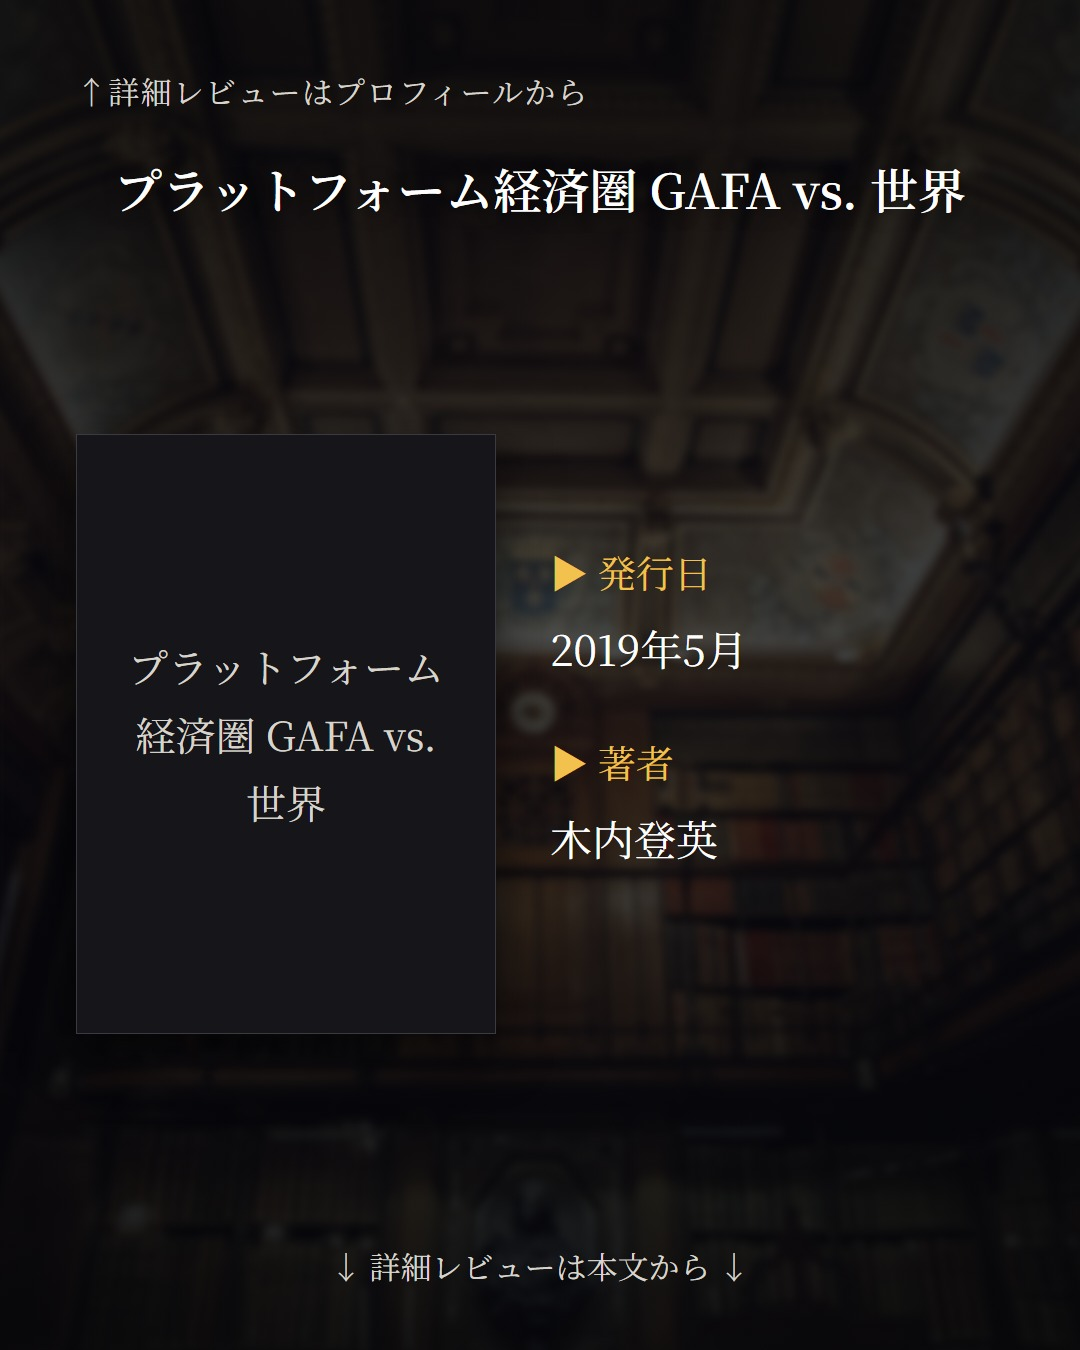
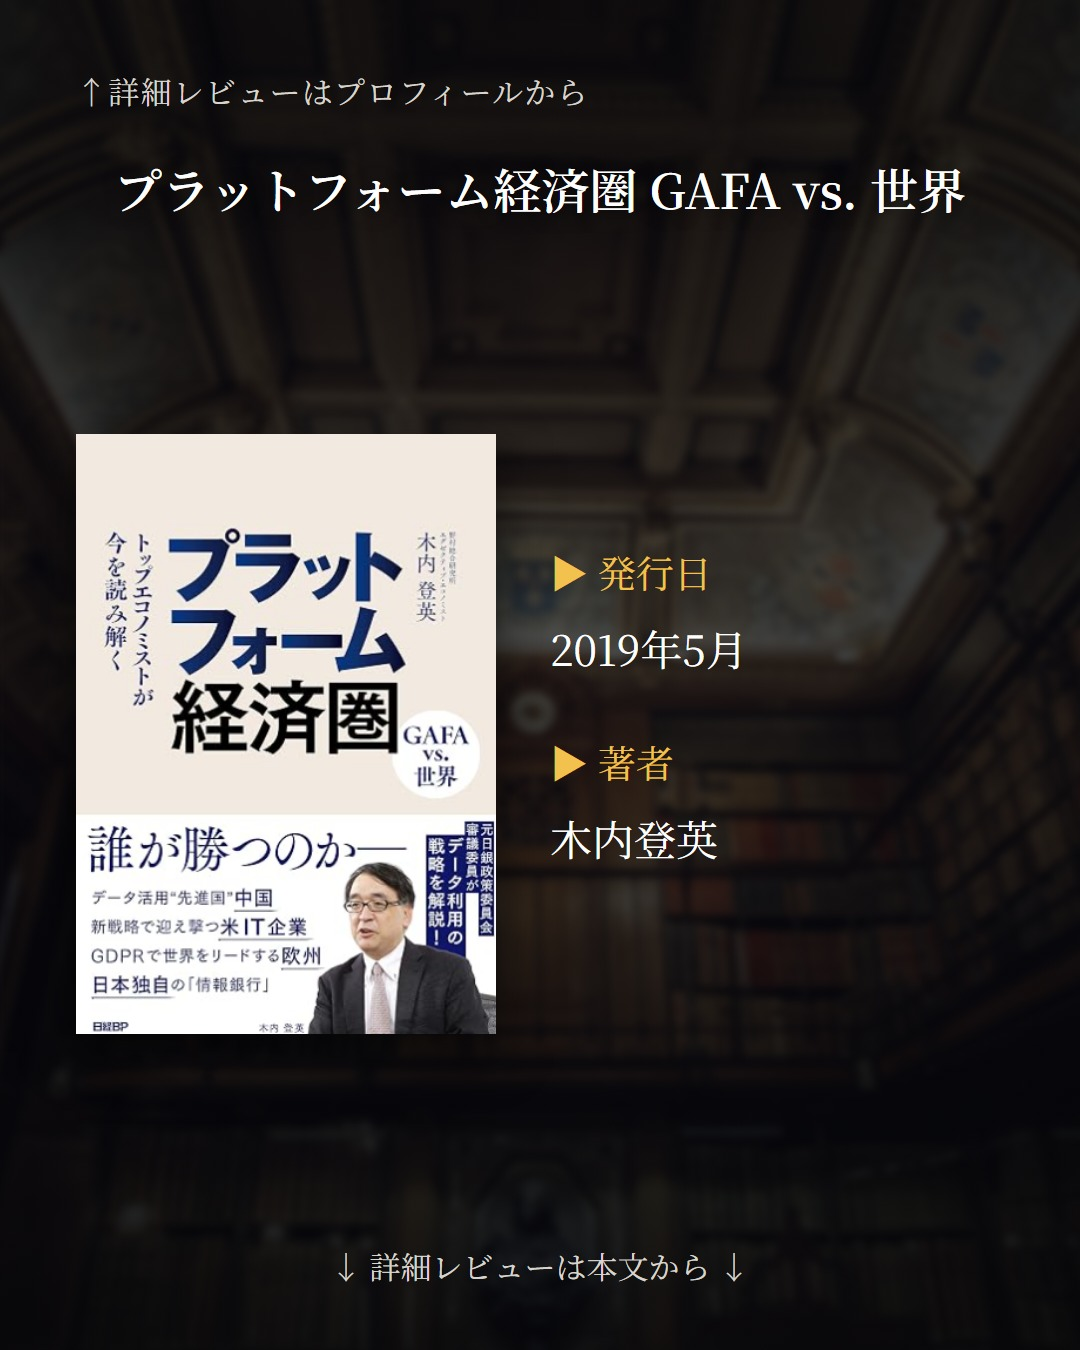
Image storage に置いた画像を取り込めるようにする
スクリーンショットは image-1787989935907.png のような名前で保存されるため、
ファイル名からは本を特定できない。名前に ISBN があれば自動で振り分け、
無いものは一覧に出して --assign で割り当てる。

これで書影の欠落は0件になった。楽天にも openBD にも無かった5冊:
  仕事で必ず結果が出るハイパフォーマー思考 / ハーバード流 企画実現力
  ティム・クック / プラットフォーム経済圏 GAFA vs. 世界 / 2030 半導体の地政学

置き場そのものは追跡しない（取り込み済みの画像は books/covers に入る）。

Changed region(s): [[0.0611, 0.3111, 0.4583, 0.7778]]

diff --git a/docs/preview/2026-W43.html b/docs/preview/2026-W43.html
@@ -62,6 +62,46 @@ a { color: #F5B94A; }
 
     <section class="day">
       <div class="day-head">
+        <span class="date">10/24 (Sat)</span>
+        <span class="badge">2030 半導体の地政学</span>
+        <span class="book">太田泰彦</span>
+      </div>
+      <div class="cards"><img src="../img/2026-10-24/01.jpg" alt="card 1" loading="lazy"><img src="../img/2026-10-24/02.jpg" alt="card 2" loading="lazy"><img src="../img/2026-10-24/03.jpg" alt="card 3" loading="lazy"><img src="../img/2026-10-24/04.jpg" alt="card 4" loading="lazy"><img src="../img/2026-10-24/05.jpg" alt="card 5" loading="lazy"><img src="../img/2026-10-24/06.jpg" alt="card 6" loading="lazy"><img src="../img/2026-10-24/07.jpg" alt="card 7" loading="lazy"><img src="../img/2026-10-24/08.jpg" alt="card 8" loading="lazy"><img src="../img/2026-10-24/09.jpg" alt="card 9" loading="lazy"><img src="../img/2026-10-24/10.jpg" alt="card 10" loading="lazy"></div>
+      <h3>カードの文言</h3>
+      <ul class="grounding"><li>1 表紙: 半導体は経済ではなく
+国防の話になった</li><li>2 書誌情報: 2021年11月 / 太田泰彦</li><li>3 おすすめ1: 半導体をめぐる
+各国の駆け引きを知りたい方</li><li>3 おすすめ2: 日本の産業の強みと弱みを
+整理して理解したい方</li><li>3 おすすめ3: 経済ニュースを地政学の
+視点で読み直したい方</li><li>4 問いかけ: 自由貿易と保護貿易。
+半導体はどちらの土俵で
+語られる物資でしょうか</li><li>5 本文: 鉄で発動した保護貿易を
+半導体でも使う日が来るのか</li><li>6 本文: 1986年の日米半導体協定。
+認識か約束かの解釈の差が
+経済制裁につながった</li><li>7 本文: メルケルは15年間で12回訪中。
+毎回ドイツトップ企業を伴う
+官民一体の外交</li><li>8 本文: 味の素の絶縁材はシェアほぼ100%。
+一方で設計とファブが弱い</li><li>9 まとめ: 半導体を経済ではなく
+国家の力学として読む一冊</li></ul>
+      <h3>キャプション</h3>
+      <pre class="caption">今回は、半導体を「経済」ではなく「地政学」として読む一冊です。BOOKOFFで立ち読みしているうちに引き込まれて、そのまま購入しました。
+
+面白かったのは、自由貿易協定と保護貿易は本来相反するのに、それはあくまで経済の話であって、国防という観点では話が変わるという指摘です。かつて鉄で発動したこの保護貿易を、半導体でも使う日が来るのか。読みながらずっとその問いが頭に残りました。
+
+もうひとつ印象的だったのが、1986年の日米半導体協定のサイドレターです。外国製半導体のシェアを20%まで引き上げるという内容を、中曽根・レーガン間では「認識」としたのに、北米側は「約束」と受け取った。この解釈の差が、のちの経済制裁につながっていく。言葉の重みが国の産業を左右するのだと感じました。
+
+メルケルが15年間で12回訪中し、その際に必ずドイツのトップ企業を引き連れて外交をしていたという話も。官民の癒着を悪としない姿勢で経済を推し進める、という描写が印象に残ります。
+
+日本については、味の素の絶縁材がシェアほぼ100%というように要素技術は強い。けれど肝心の設計、特にロジックとファブ（製造）が弱い。強みと弱みがくっきり分かれているのが分かります。
+
+ニュースで半導体という言葉を見かけたとき、その裏側を少し想像できるようになる一冊でした。</pre>
+      <h3>書籍固有ハッシュタグ</h3>
+      <div class="tags"><span class="tag">2030 半導体の地政学</span><span class="tag">#太田泰彦</span><span class="tag">#半導体</span><span class="tag">#地政学</span><span class="tag">#経済ニュース</span><span class="tag">#ビジネス書</span></div>
+      <h3>根拠メモ (grounding)</h3>
+      <ul class="grounding"><li>表紙・問いかけ・point1：読書メモ「自由貿易協定と保護貿易は相反する…国防という観点で/鉄で発動した この保護貿易を半導体でも使う日がくるのか」</li><li>point2：読書メモ「1986年の日米半導体協定のサイドレター 外国製半導体シェアを20%引き上げる 中曽根 レーガン間で左記内容を認識とした 日本、約束とした北米→結果この違いが経済制裁につながる」（メモの表記に沿い、認識と約束の解釈差として記述）</li><li>point3：読書メモ「メルケル 15年間で12回の訪中その際に必ずドイツトップ企業を引き連れ外交、官民癒着を悪としない姿勢」</li><li>point4：読書メモ「味の素 絶縁材シェア100に近い 日本は半導体要素技術強いが、肝心の設計（特にロジック）ファブ/製造/が弱い」</li><li>キャプション冒頭の購入経緯：読書メモ「BOOKOFFで立ち読みの末、購入」</li><li>まとめ「国家の力学として読む」：メモ全体（国防・外交・協定の記述）からの要約であり、本文の直接引用ではない</li><li>おすすめ3項目：読書メモの各トピック（各国の駆け引き、日本の強み弱み）から構成。「経済ニュースを読み直す」は一般論寄り（データに直接の根拠なし）</li><li>書名・著者・出版年：書誌情報</li><li>ジャンル・ページ数は不明のため記載せず</li></ul>
+    </section>
+    
+    <section class="day">
+      <div class="day-head">
         <span class="date">10/25 (Sun)</span>
         <span class="badge">Web3とDAO</span>
         <span class="book">亀井聡彦、鈴木雄大、赤澤直樹</span>

diff --git a/src/bookgram/cli.py b/src/bookgram/cli.py
@@ -22,6 +22,7 @@ from __future__ import annotations
 import argparse
 import json
 import os
+import re
 import shutil
 import sys
 import tempfile
@@ -40,6 +41,7 @@ from .config import (
     IMG_DIR,
     JST,
     COVERS_DIR,
+    IMAGE_INBOX,
     OUTPUT_DIR,
     POSTED_LOG,
     QUEUE_LOW_THRESHOLD,
@@ -85,6 +87,7 @@ from .reel import (
 )
 from .render import (
     STORY_FILENAME,
+    COVER_SUFFIXES,
     cover_data_uri,
     fetch_cover_data_uri,
     local_cover,
@@ -1097,6 +1100,39 @@ def cmd_fb_refresh_token(_: argparse.Namespace) -> int:
 # --------------------------------------------------------------------------- covers
 
 
+ISBN13 = re.compile(r"97[89]\d{10}")
+
+
+def collect_covers(assign: dict[str, str] | None = None) -> tuple[list[Path], list[Path]]:
+    """置き場の画像を books/covers に取り込む。
+
+    ファイル名に ISBN が入っていればそのまま。入っていなければ assign で
+    「ファイル名 -> ISBN」を渡す。どちらでもないものは判別できないので
+    呼び出し側に返し、人が見て決める。
+    """
+    assign = assign or {}
+    filed: list[Path] = []
+    unknown: list[Path] = []
+    if not IMAGE_INBOX.exists():
+        return filed, unknown
+
+    COVERS_DIR.mkdir(parents=True, exist_ok=True)
+    for path in sorted(IMAGE_INBOX.iterdir()):
+        if path.suffix.lower() not in COVER_SUFFIXES:
+            continue
+        isbn = assign.get(path.name)
+        if not isbn:
+            found = ISBN13.search(path.stem.replace("-", ""))
+            isbn = found.group(0) if found else ""
+        if not isbn:
+            unknown.append(path)
+            continue
+        target = COVERS_DIR / f"{isbn}{path.suffix.lower()}"
+        target.write_bytes(path.read_bytes())
+        filed.append(target)
+    return filed, unknown
+
+
 def cmd_covers(args: argparse.Namespace) -> int:
     """書影が付いていない下書きを洗い出す。
 
@@ -1104,6 +1140,14 @@ def cmd_covers(args: argparse.Namespace) -> int:
     著者や発行日まで別の本のものが入っている恐れがあるので、単なる見た目の
     問題として扱わない（実際に『決断の本質』へ別書の著者と発行日が入っていた）。
     """
+    if args.collect or args.assign:
+        assign = dict(pair.split("=", 1) for pair in (args.assign or []))
+        filed, unknown = collect_covers(assign)
+        for path in filed:
+            print(f"[ok] 取り込み: {path.name}")
+        for path in unknown:
+            print(f"[--] どの本か不明: {path.name}（--assign 'ファイル名=ISBN' で指定）")
+
     missing: list[tuple[str, str, str]] = []
     total = 0
     for path in sorted(DRAFTS_DIR.glob("*/post.json")):
@@ -1302,6 +1346,17 @@ def main(argv: list[str] | None = None) -> int:
     ).set_defaults(func=cmd_fb_refresh_token)
     p_cov = sub.add_parser("covers", help="書影が付いていない下書きを洗い出す")
     p_cov.add_argument("--all", action="store_true", help="投稿済みも含める")
+    p_cov.add_argument(
+        "--collect",
+        action="store_true",
+        help="Image storage の画像を books/covers に取り込む",
+    )
+    p_cov.add_argument(
+        "--assign",
+        action="append",
+        metavar="ファイル名=ISBN",
+        help="ファイル名から ISBN が読み取れないときに割り当てる",
+    )
     p_cov.set_defaults(func=cmd_covers)
 
     p_stats = sub.add_parser("stats", help="届き方の数字を読み出す")

diff --git a/tests/test_core.py b/tests/test_core.py
@@ -776,3 +776,30 @@ def test_local_cover_is_used_when_the_apis_have_none(tmp_path, monkeypatch):
     assert has_cover({"isbn": "9784569841939", "cover_url": ""})
     assert has_cover({"isbn": "", "cover_url": "https://x/y.jpg"})
     assert not has_cover({"isbn": "9999999999999", "cover_url": ""})
+
+
+def test_covers_are_collected_from_the_inbox(tmp_path, monkeypatch):
+    """置き場に入れた画像を books/covers に取り込む。"""
+    from bookgram import cli
+
+    inbox, store = tmp_path / "in", tmp_path / "out"
+    inbox.mkdir()
+    monkeypatch.setattr(cli, "IMAGE_INBOX", inbox)
+    monkeypatch.setattr(cli, "COVERS_DIR", store)
+
+    (inbox / "9784569841939.jpg").write_bytes(b"a")   # 名前にISBN
+    (inbox / "cover-978-4-062-16782-6.png").write_bytes(b"b")  # ハイフン付き
+    (inbox / "image-1787989935907.png").write_bytes(b"c")  # 判別できない
+    (inbox / "notes.txt").write_bytes(b"d")           # 画像ではない
+
+    filed, unknown = cli.collect_covers()
+    assert sorted(p.name for p in filed) == [
+        "9784062167826.png",
+        "9784569841939.jpg",
+    ]
+    assert [p.name for p in unknown] == ["image-1787989935907.png"]
+
+    # 判別できなかったものは、こちらで割り当てれば入る
+    filed, unknown = cli.collect_covers({"image-1787989935907.png": "9784815602505"})
+    assert (store / "9784815602505.png").exists()
+    assert unknown == []

diff --git a/src/bookgram/config.py b/src/bookgram/config.py
@@ -17,6 +17,8 @@ IMG_DIR = DOCS_DIR / "img"
 OUTPUT_DIR = ROOT / "output"
 # 書影を手で置く場所。API で取れない本のために、{ISBN}.jpg を入れておく。
 COVERS_DIR = ROOT / "books" / "covers"
+# 画像を放り込む場所。ここに置いたものを covers --collect が取り込む。
+IMAGE_INBOX = ROOT / "Image storage"
 TEMPLATES_DIR = ROOT / "templates"
 ASSETS_DIR = ROOT / "assets"
 BACKGROUNDS_DIR = ASSETS_DIR / "backgrounds"

diff --git a/books/covers/README.md b/books/covers/README.md
@@ -3,20 +3,35 @@
 楽天に取扱いが無く openBD にも書影が無い本は、API からは永久に取れません
 （絶版・在庫切れ）。その場合はここに画像を置くと、そちらが使われます。
 
-## 置き方
+## 使い方
 
-ファイル名を **ISBN13桁 + 拡張子** にしてください。ハイフンは入れません。
+画像は `Image storage/` に放り込むだけで構いません。取り込みはこちらで
+やります。
 
+```bash
+PYTHONPATH=src python -m bookgram covers --collect
 ```
-books/covers/9784569841939.jpg
-books/covers/9784815602505.png
+
+ファイル名に ISBN13桁が入っていれば自動で振り分けます。スクリーンショットの
+ような名前（image-1787989935907.png）の場合は、どの本か分からないので
+一覧に出ます。その本の ISBN を指定してください。
+
+```bash
+PYTHONPATH=src python -m bookgram covers --collect \
+  --assign "image-1787989935907.png=9784569841939"
 ```
 
+取り込むとこの `books/covers/` に `{ISBN13}.{拡張子}` の名前で置かれます。
 対応する拡張子: .jpg / .jpeg / .png / .webp
 
-ISBN は `books/queue.yaml` の該当書に書いてあるものと同じにします。
-置いたあとは `python -m bookgram rerender --date YYYY-MM-DD` でカードを
-描き直してください。`python -m bookgram covers` で反映を確認できます。
+## 置いたあと
+
+カードを描き直します。
+
+```bash
+PYTHONPATH=src python -m bookgram rerender --date YYYY-MM-DD
+PYTHONPATH=src python -m bookgram covers          # 反映の確認
+```
 
 ## 大きさ
 
